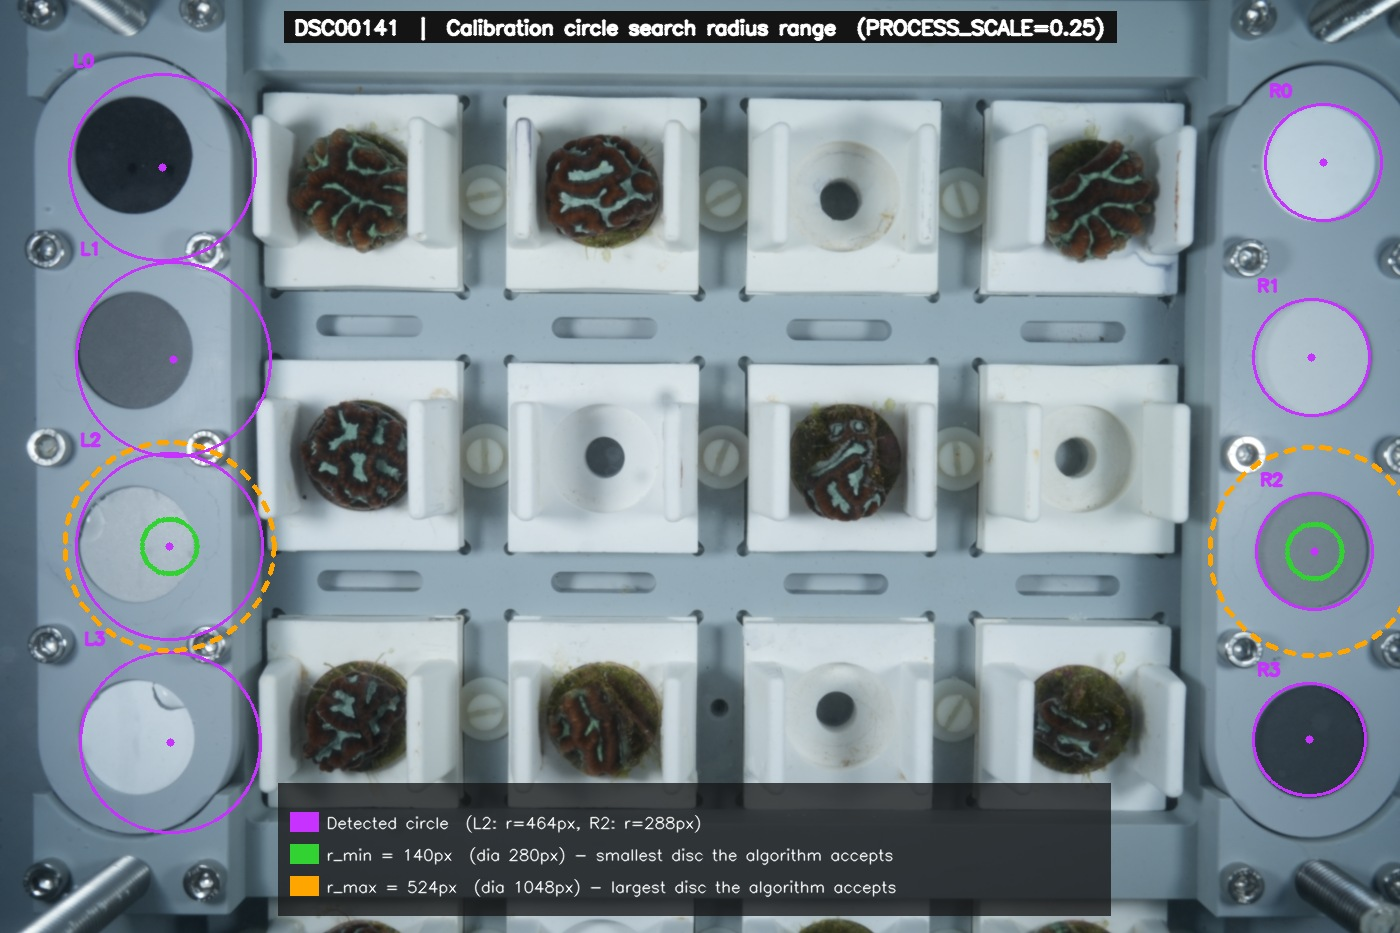
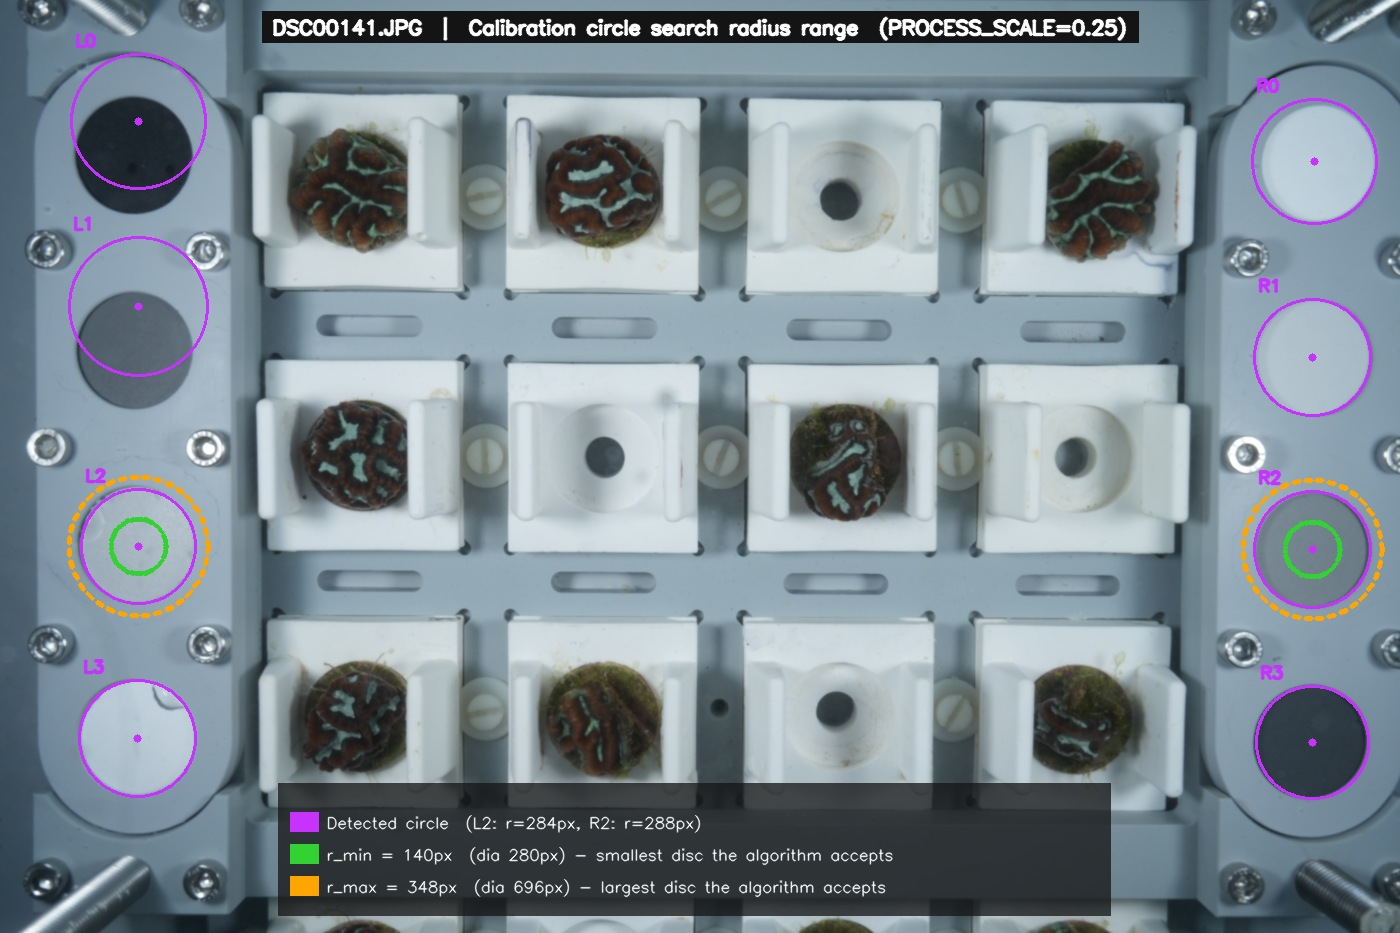
Add generate_radius_range_figure.py; regenerate figure for r_max=0.050
Script runs detection on any input image and draws r_min (green) and
r_max (orange dashed) rings at L2/R2 alongside all detected circles.

Usage: python3 generate_radius_range_figure.py <image> [output]

Figure regenerated: r_max now 348px (dia 696px) to match updated
CALIB_R_MAX_FRAC=0.050 constant in detect_calibration_circles.py.

diff --git a/generate_radius_range_figure.py b/generate_radius_range_figure.py
@@ -1,0 +1,148 @@
+#!/usr/bin/env python3
+"""
+generate_radius_range_figure.py
+
+Generate an annotated image showing the calibration circle search radius range
+(r_min and r_max) overlaid on a detected result.
+
+Usage:
+    python3 generate_radius_range_figure.py <image> [output]
+
+    image   path to the input image (e.g. images/DSC00141.JPG)
+    output  path for the output JPEG (default: <stem>_radius_range.jpg)
+
+The script runs calibration circle detection on the image, then draws:
+  - Magenta circles  — all 8 detected calibration discs
+  - Green ring       — r_min at L2 and R2 (smallest accepted disc)
+  - Orange dashed    — r_max at L2 and R2 (largest accepted disc)
+"""
+
+import json
+import sys
+import tempfile
+from pathlib import Path
+
+import cv2
+import numpy as np
+
+from detect_calibration_circles import (
+    PROCESS_SCALE,
+    CALIB_R_MIN_FRAC,
+    CALIB_R_MAX_FRAC,
+    detect_calibration_circles,
+)
+
+
+def generate(img_path: Path, out_path: Path, display_width: int = 1400) -> None:
+    img = cv2.imread(str(img_path))
+    if img is None:
+        raise FileNotFoundError(f"Cannot read image: {img_path}")
+
+    H, W = img.shape[:2]
+    sw = int(W * PROCESS_SCALE)
+    r_min_full = int(max(4,  int(sw * CALIB_R_MIN_FRAC)) / PROCESS_SCALE)
+    r_max_full = int(max(8,  int(sw * CALIB_R_MAX_FRAC)) / PROCESS_SCALE)
+    print(f"  r_min = {r_min_full} px  (dia {r_min_full * 2} px)")
+    print(f"  r_max = {r_max_full} px  (dia {r_max_full * 2} px)")
+
+    # Run detection
+    small   = cv2.resize(img, (sw, int(H * PROCESS_SCALE)))
+    circles = detect_calibration_circles(small, PROCESS_SCALE)
+    print(f"  Detected {len(circles)}/8 calibration circles")
+
+    by_id = {f"{c['side']}{c['idx']}": c for c in circles}
+
+    # ── build display image ────────────────────────────────────────────────────
+    sc  = display_width / W
+    vis = cv2.resize(img, (display_width, int(H * sc)), interpolation=cv2.INTER_AREA)
+
+    def s(v): return int(round(v * sc))
+
+    FONT    = cv2.FONT_HERSHEY_SIMPLEX
+    MAGENTA = (255,  50, 200)
+    GREEN   = ( 50, 210,  50)
+    ORANGE  = (  0, 165, 255)
+    WHITE   = (255, 255, 255)
+
+    # All detected circles (magenta)
+    for c in circles:
+        cx, cy, r = s(c['center_x']), s(c['center_y']), s(c['radius'])
+        cv2.circle(vis, (cx, cy), r, MAGENTA, 2)
+        cv2.circle(vis, (cx, cy), 4, MAGENTA, -1)
+        tag = f"{c['side']}{c['idx']}"
+        cv2.putText(vis, tag, (cx - r + 4, cy - r - 8),
+                    FONT, 0.55, MAGENTA, 2, cv2.LINE_AA)
+
+    # r_min / r_max rings at L2 and R2 (dashed via alternating line segments)
+    angles = np.linspace(0, 2 * np.pi, 72)
+    for key in ('L2', 'R2'):
+        if key not in by_id:
+            continue
+        c  = by_id[key]
+        cx = s(c['center_x']); cy = s(c['center_y'])
+
+        # r_max — orange dashed ring
+        pts = [(cx + int(s(r_max_full) * np.cos(a)),
+                cy + int(s(r_max_full) * np.sin(a))) for a in angles]
+        for i in range(0, len(pts), 2):
+            cv2.line(vis, pts[i], pts[(i + 1) % len(pts)], ORANGE, 3)
+
+        # r_min — green dashed ring
+        pts = [(cx + int(s(r_min_full) * np.cos(a)),
+                cy + int(s(r_min_full) * np.sin(a))) for a in angles]
+        for i in range(0, len(pts), 2):
+            cv2.line(vis, pts[i], pts[(i + 1) % len(pts)], GREEN, 3)
+
+    # ── legend ─────────────────────────────────────────────────────────────────
+    l2r = by_id['L2']['radius'] if 'L2' in by_id else '?'
+    r2r = by_id['R2']['radius'] if 'R2' in by_id else '?'
+    legend = [
+        (MAGENTA, f"Detected circle  (L2: r={l2r}px, R2: r={r2r}px)"),
+        (GREEN,   f"r_min = {r_min_full}px  (dia {r_min_full * 2}px)"
+                  f" - smallest disc the algorithm accepts"),
+        (ORANGE,  f"r_max = {r_max_full}px  (dia {r_max_full * 2}px)"
+                  f" - largest disc the algorithm accepts"),
+    ]
+    LH = 32; LP = 12
+    box_w = 820; box_h = len(legend) * LH + LP * 2
+    box_x = (display_width - box_w) // 2
+    box_y = vis.shape[0] - box_h - 18
+    overlay = vis.copy()
+    cv2.rectangle(overlay, (box_x - LP, box_y - LP),
+                  (box_x + box_w, box_y + box_h), (20, 20, 20), -1)
+    cv2.addWeighted(overlay, 0.75, vis, 0.25, 0, vis)
+    for i, (color, text) in enumerate(legend):
+        ty = box_y + i * LH + LH // 2 + LP
+        cv2.rectangle(vis, (box_x, ty - 11), (box_x + 28, ty + 8), color, -1)
+        cv2.putText(vis, text, (box_x + 36, ty + 5),
+                    FONT, 0.52, WHITE, 1, cv2.LINE_AA)
+
+    # ── title ──────────────────────────────────────────────────────────────────
+    title = (f"{img_path.name}  |  Calibration circle search radius range"
+             f"  (PROCESS_SCALE={PROCESS_SCALE})")
+    (tw, th), _ = cv2.getTextSize(title, FONT, 0.65, 2)
+    tx = (display_width - tw) // 2; ty = 34
+    cv2.rectangle(vis, (tx - 10, ty - th - 8), (tx + tw + 10, ty + 8),
+                  (20, 20, 20), -1)
+    cv2.putText(vis, title, (tx, ty), FONT, 0.65, WHITE, 2, cv2.LINE_AA)
+
+    # ── save ───────────────────────────────────────────────────────────────────
+    cv2.imwrite(str(out_path), vis, [cv2.IMWRITE_JPEG_QUALITY, 93])
+    print(f"  Saved: {out_path}")
+
+
+def main():
+    if len(sys.argv) < 2:
+        print(__doc__)
+        sys.exit(1)
+
+    img_path = Path(sys.argv[1])
+    out_path = (Path(sys.argv[2]) if len(sys.argv) > 2
+                else img_path.parent / f"{img_path.stem}_radius_range.jpg")
+
+    print(f"[{img_path.name}]")
+    generate(img_path, out_path)
+
+
+if __name__ == "__main__":
+    main()